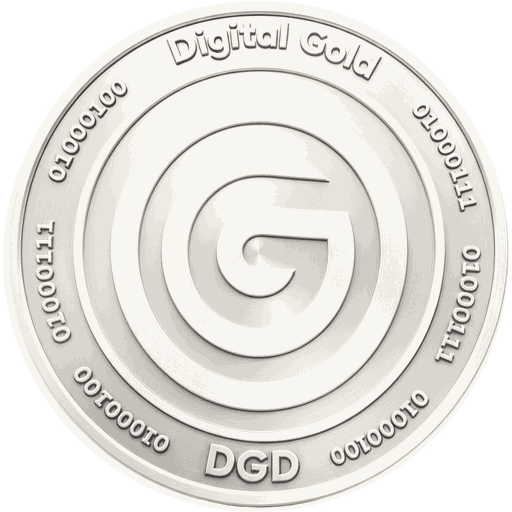
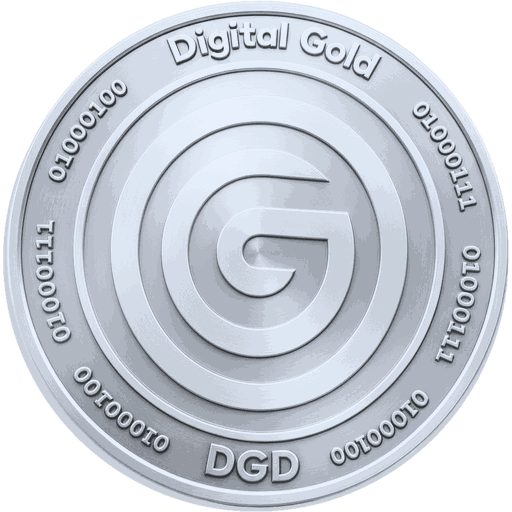
Silver coins re-toned from the gold render, synced from app 9bb5d05
TEN-GAMES.md records why the silver read as white, and the fix: silver made
from the gold coin's render with a cool cast.

diff --git a/arcade/v2/app/tools/gen_silver_coin.py b/arcade/v2/app/tools/gen_silver_coin.py
@@ -1,0 +1,43 @@
+"""Makes coin_silver.png: metallic silver, from the gold coin's render.
+
+The original silver render sat almost entirely at the top of the range
+(median brightness 234 of 255, against 175 for the gold coin), with broad
+blown-out areas, so next to gold and copper it read as a white disc rather
+than as metal. Remapping its brightness only turned the blown areas into
+blotches: the shading was not there to recover.
+
+The gold coin is the same design, with full shading. So silver is taken from
+it: the gold's brightness, lifted a little (silver is the brighter metal) and
+given a cool blue-grey cast, which is what makes silver read as silver beside
+warm gold. Every edge, emboss and highlight is the gold render's.
+
+    python tools/gen_silver_coin.py
+
+The source is tools/source/coin_gold_for_silver.png, a copy of the gold coin
+as it was when this was made, so re-running never compounds. The original
+silver render is kept beside it as coin_silver_original.png.
+"""
+import os
+
+import numpy as np
+from PIL import Image
+
+HERE = os.path.dirname(os.path.abspath(__file__))
+SRC = os.path.join(HERE, "source", "coin_gold_for_silver.png")
+OUT = os.path.join(HERE, "..", "assets", "images", "coin_silver.png")
+
+# Brightness in -> out, piecewise linear: lifts the gold's midtones toward
+# silver's and keeps its deep edges and bright highlights.
+CURVE_IN = [0, 60, 120, 175, 220, 255]
+CURVE_OUT = [22, 78, 140, 192, 232, 252]
+# Cool cast, per channel.
+CAST = np.array([0.94, 0.975, 1.03])
+
+a = np.array(Image.open(SRC).convert("RGBA")).astype(float)
+lum = a[:, :, :3] @ np.array([0.299, 0.587, 0.114])
+new = np.interp(lum, CURVE_IN, CURVE_OUT)
+rgb = np.clip(new[:, :, None] * CAST[None, None, :], 0, 255)
+out = np.dstack([rgb, a[:, :, 3]]).astype(np.uint8)
+Image.fromarray(out, "RGBA").save(OUT)
+m = out[:, :, 3] > 200
+print("wrote", os.path.normpath(OUT), "median brightness", int(np.median(out[m][:, :3].mean(axis=1))))

diff --git a/arcade/TEN-GAMES.md b/arcade/TEN-GAMES.md
@@ -547,6 +547,23 @@ wide. It now wraps.
 - **One fix:** the confirmation message sat over the Fly button for four
   seconds. It is now shorter and lifted clear.
 
+### Silver coins re-toned — 2026-09-28
+
+The owner noticed the silver coins read as white, not metal. The render
+Coin Quest shipped sat almost entirely at the top of the brightness range
+(median 234 of 255, against 175 for gold), with broad blown-out areas.
+Remapping its brightness only turned those areas into blotches, because the
+shading was not there to recover.
+
+`coin_silver.png` is now made from the gold coin's render instead
+(`tools/gen_silver_coin.py`). The coins are the same design with full
+shading, so the script takes the gold's brightness, lifts the midtones
+slightly, and adds a cool blue-grey cast. Median brightness is 209: brighter
+than gold, as silver should be, but with real shadow and highlight.
+
+The originals are kept in `tools/source/`. The file is also the
+leaderboard's second-place medal, which improves the same way.
+
 ### Music — 2026-09-27
 
 "Flight of the Swine", the owner's own track (2:36), is the game's music. It
